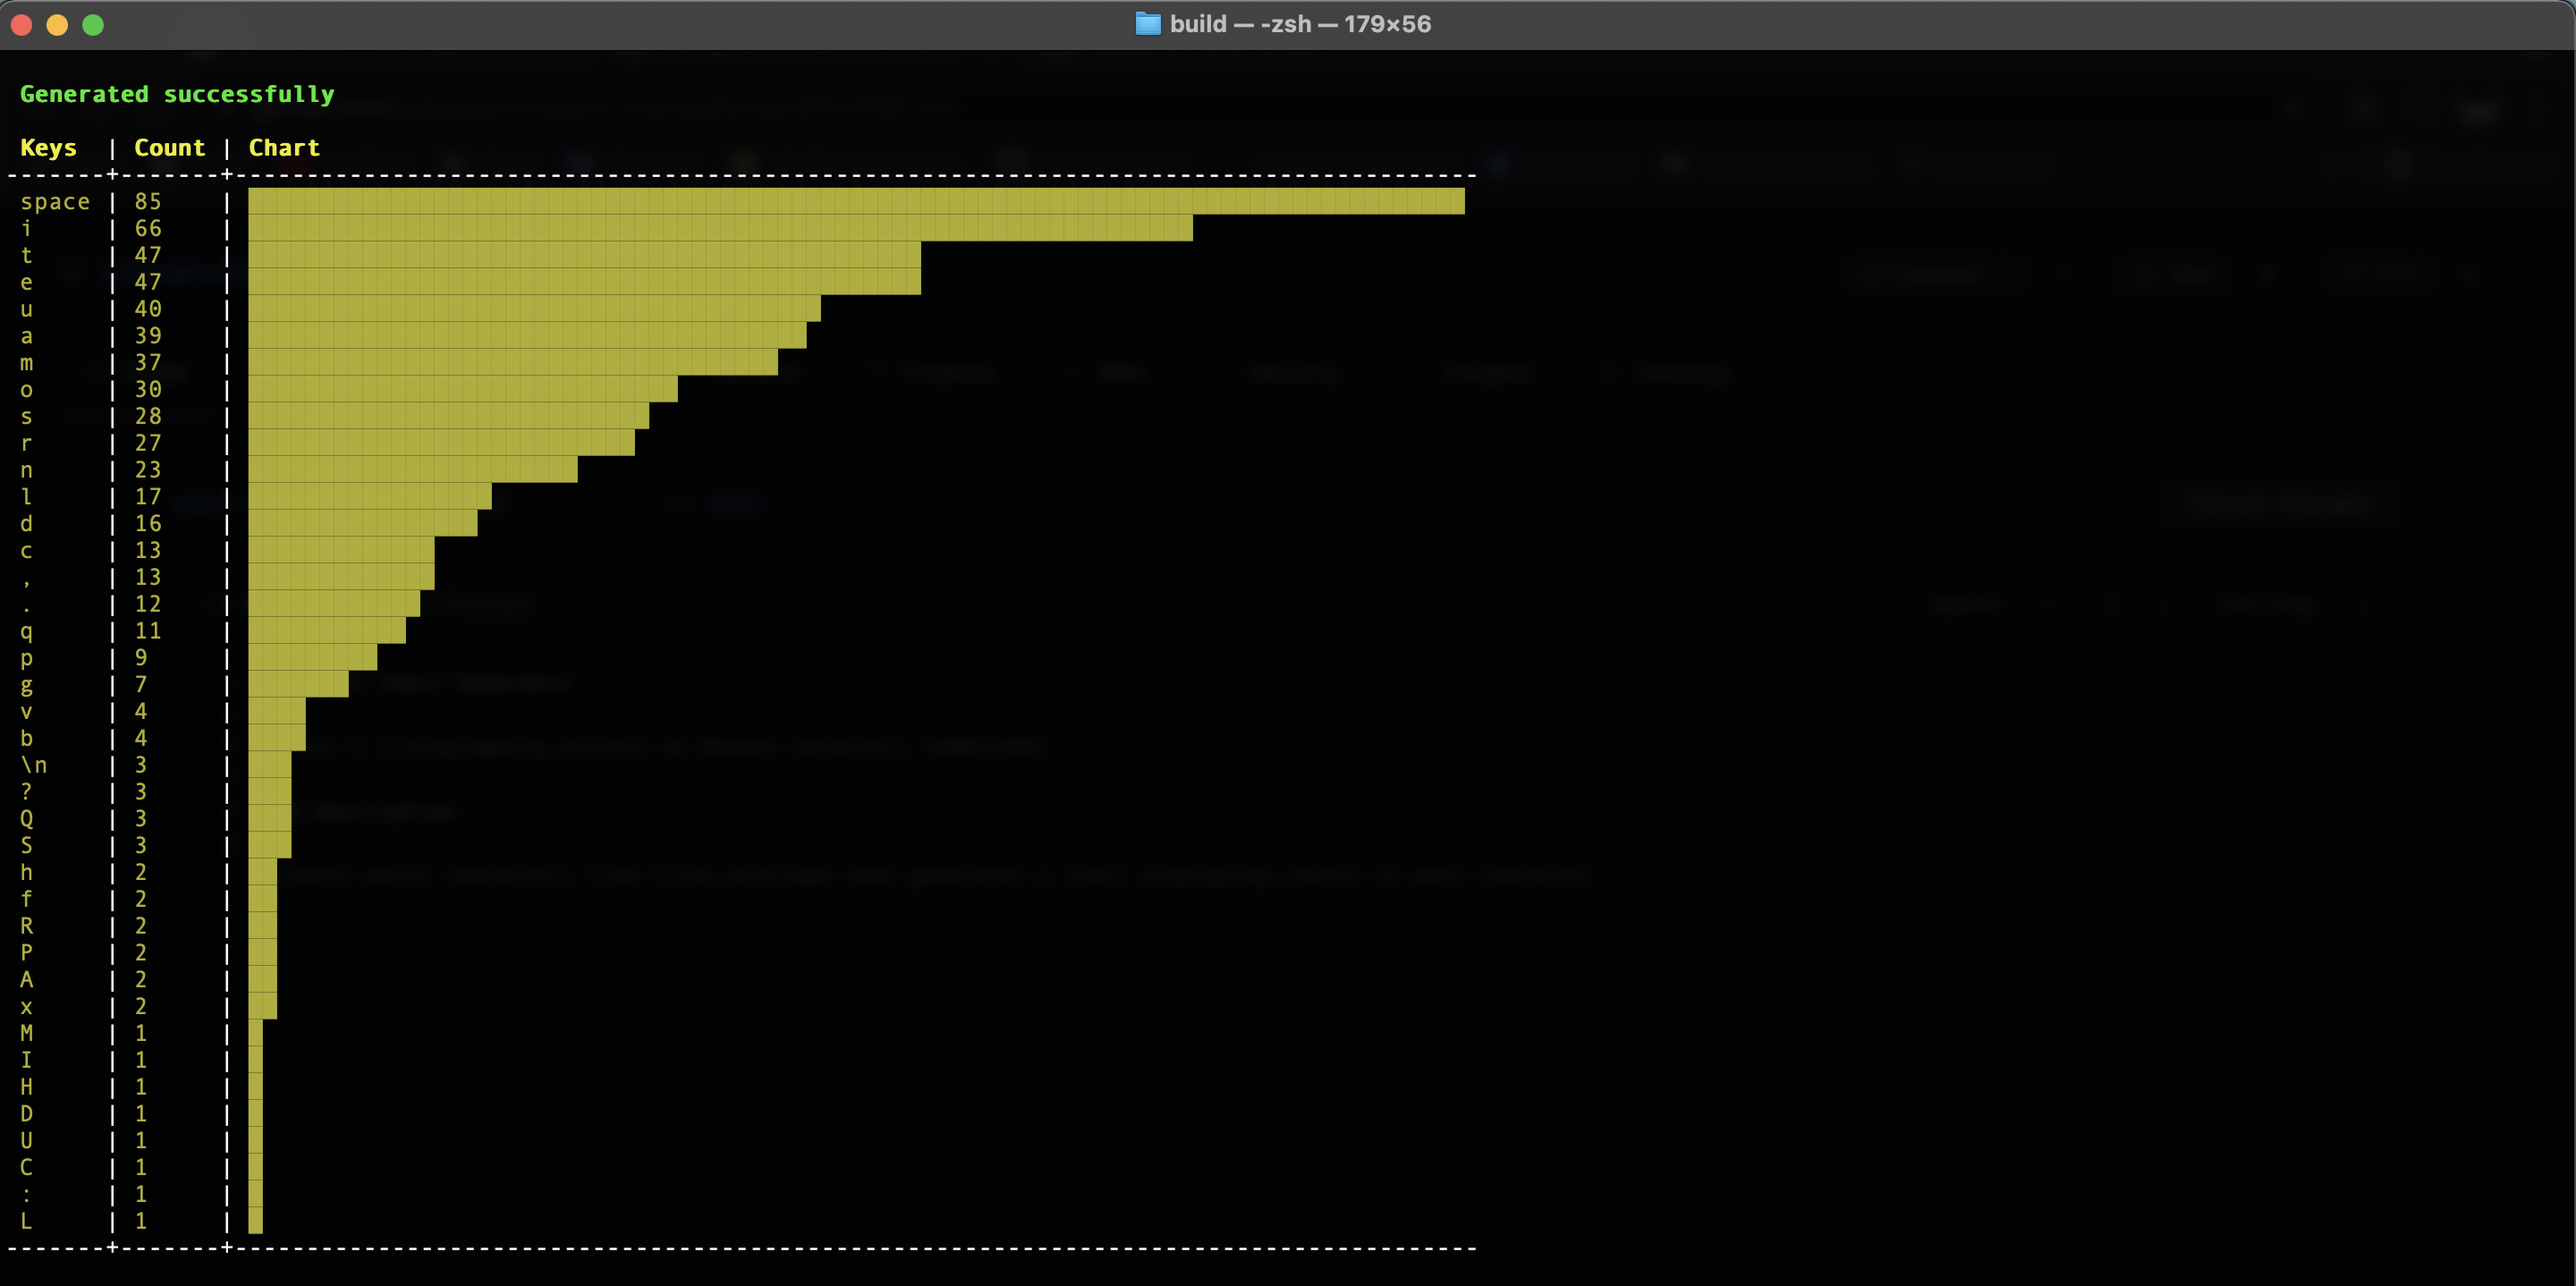
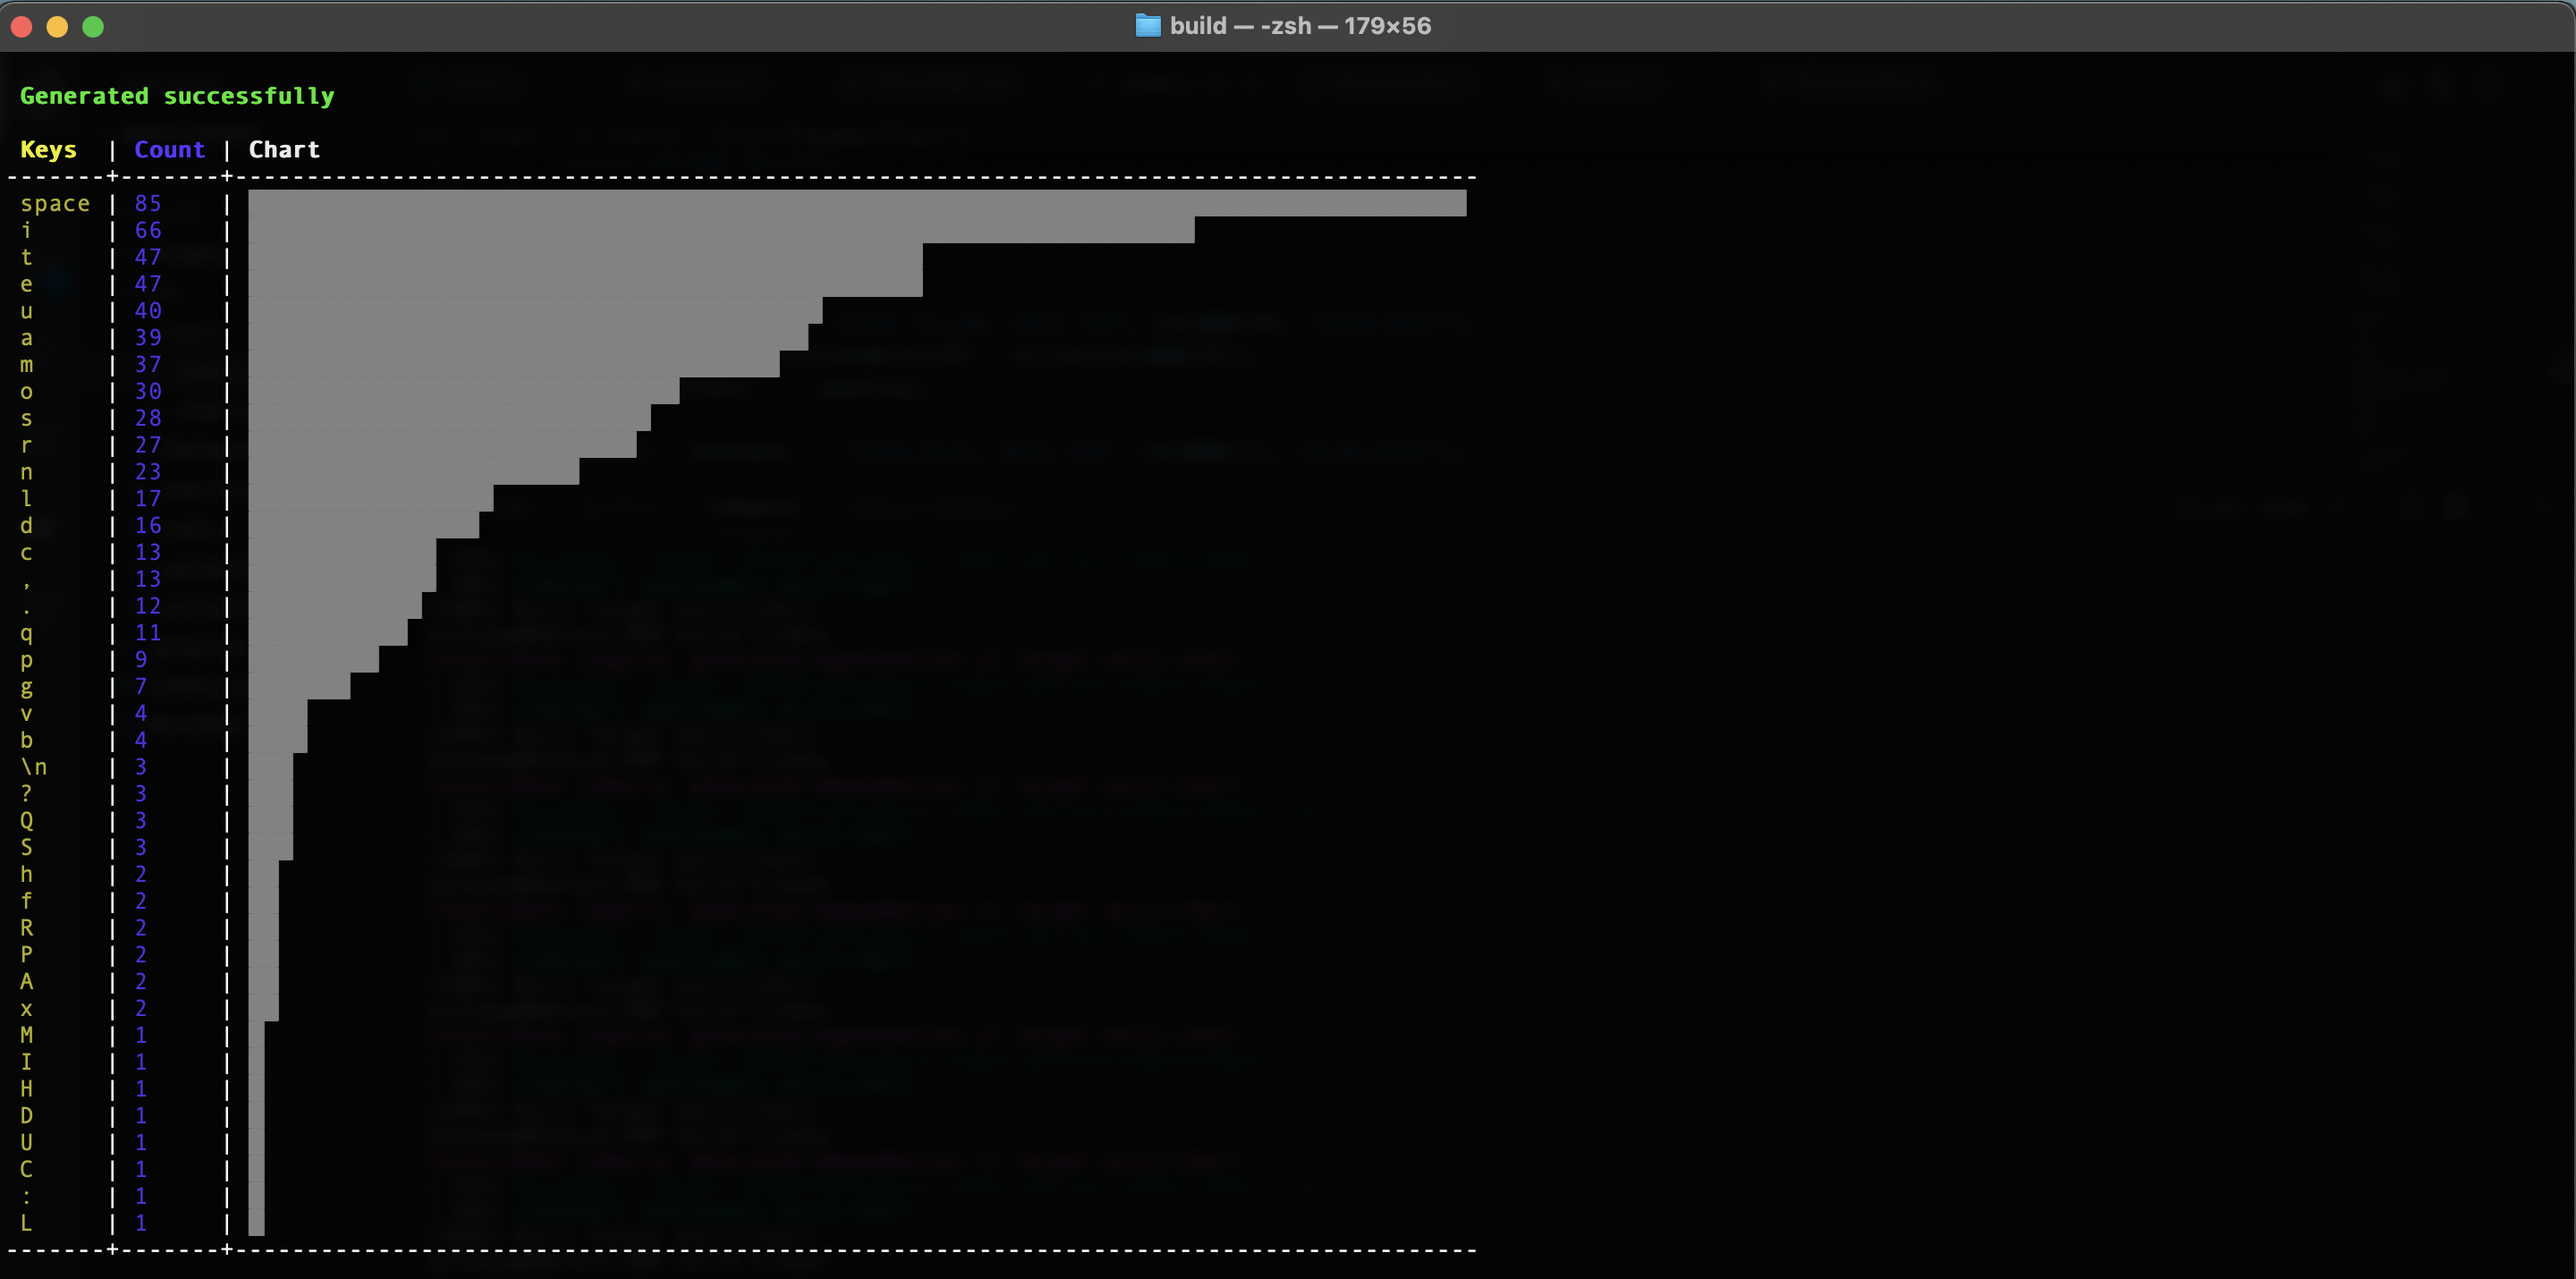
change styling of the chart

diff --git a/src/chart/chart.c b/src/chart/chart.c
@@ -219,11 +219,11 @@ void printHeader(Chart *ch)
     int padding = ch->columnWidth[0] - strlen(COLUMNS[0]);
     printStrNTimes(" ", padding);
 
-    printf("| %s%s%s%s ", COLOR_YELLOW, BOLD_TEXT, COLUMNS[1], COLOR_RESET);
+    printf("| %s%s%s%s ", COLOR_BLUE, BOLD_TEXT, COLUMNS[1], COLOR_RESET);
     padding = ch->columnWidth[1] - strlen(COLUMNS[1]);
     printStrNTimes(" ", padding);
 
-    printf("| %s%s%s%s \n", COLOR_YELLOW, BOLD_TEXT, COLUMNS[2], COLOR_RESET);
+    printf("| %s%s%s%s \n", COLOR_WHITE, BOLD_TEXT, COLUMNS[2], COLOR_RESET);
 
     printNewRow(ch);
 }
@@ -250,7 +250,7 @@ void printKeys(Chart *ch)
         printStrNTimes(" ", padding);
 
         // 2 paddings + 1 column divider
-        printf("| %s%d%s ", COLOR_YELLOW, ch->keys[i].count, COLOR_RESET);
+        printf("| %s%d%s ", COLOR_BLUE, ch->keys[i].count, COLOR_RESET);
         n = ch->keys[i].countDigit;
         padding = ch->columnWidth[1] - n;
         limit -= padding + n;
@@ -263,7 +263,7 @@ void printKeys(Chart *ch)
         }
 
         // 1 padding + 1 column divider
-        printf("| %s", COLOR_YELLOW);
+        printf("| %s%s", COLOR_BLACK, BOLD_TEXT);
         printStrNTimes(BAR, n);
         printf("%s\n", COLOR_RESET);
     }
